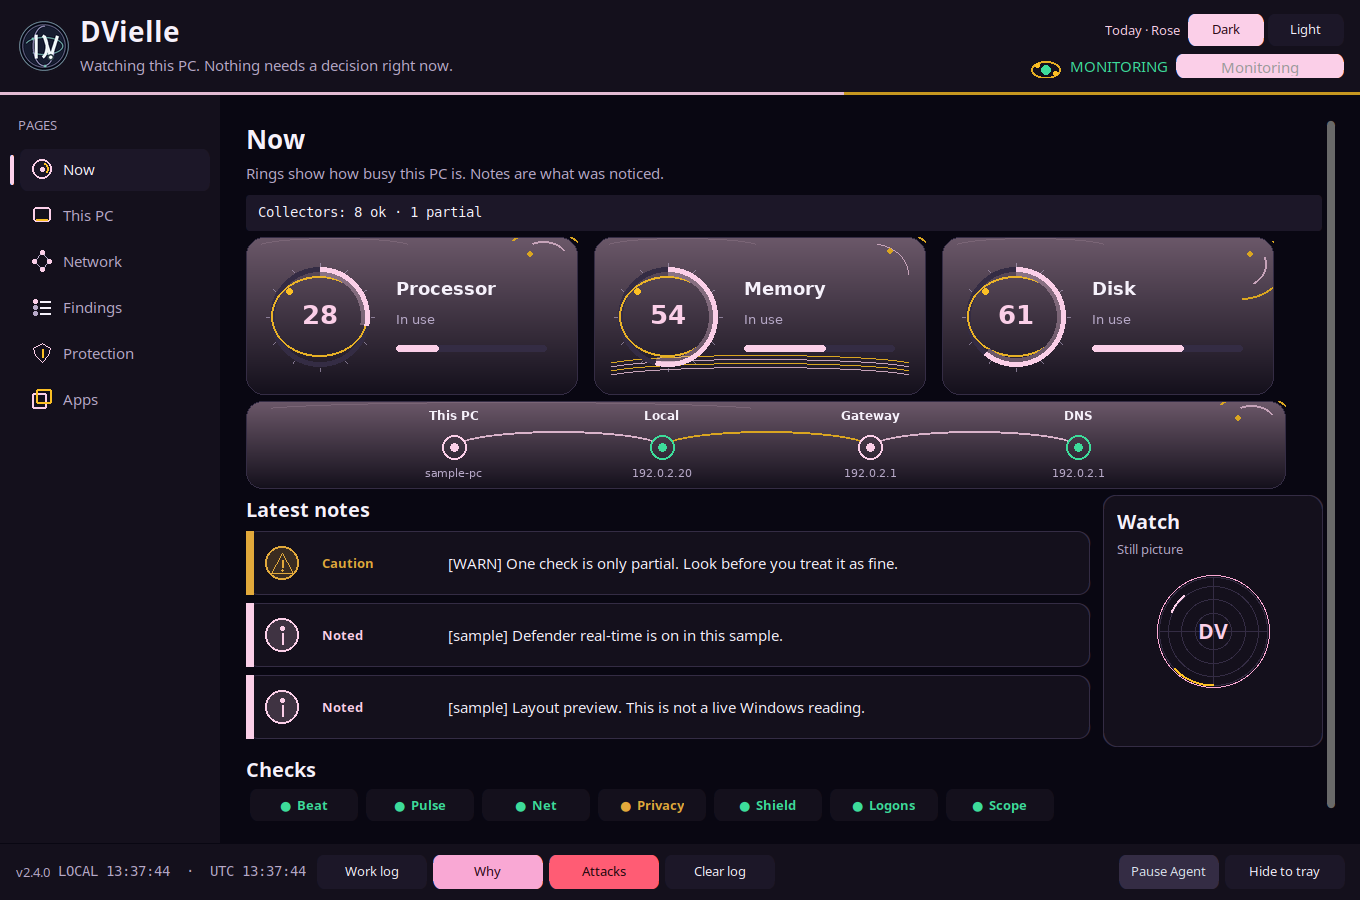
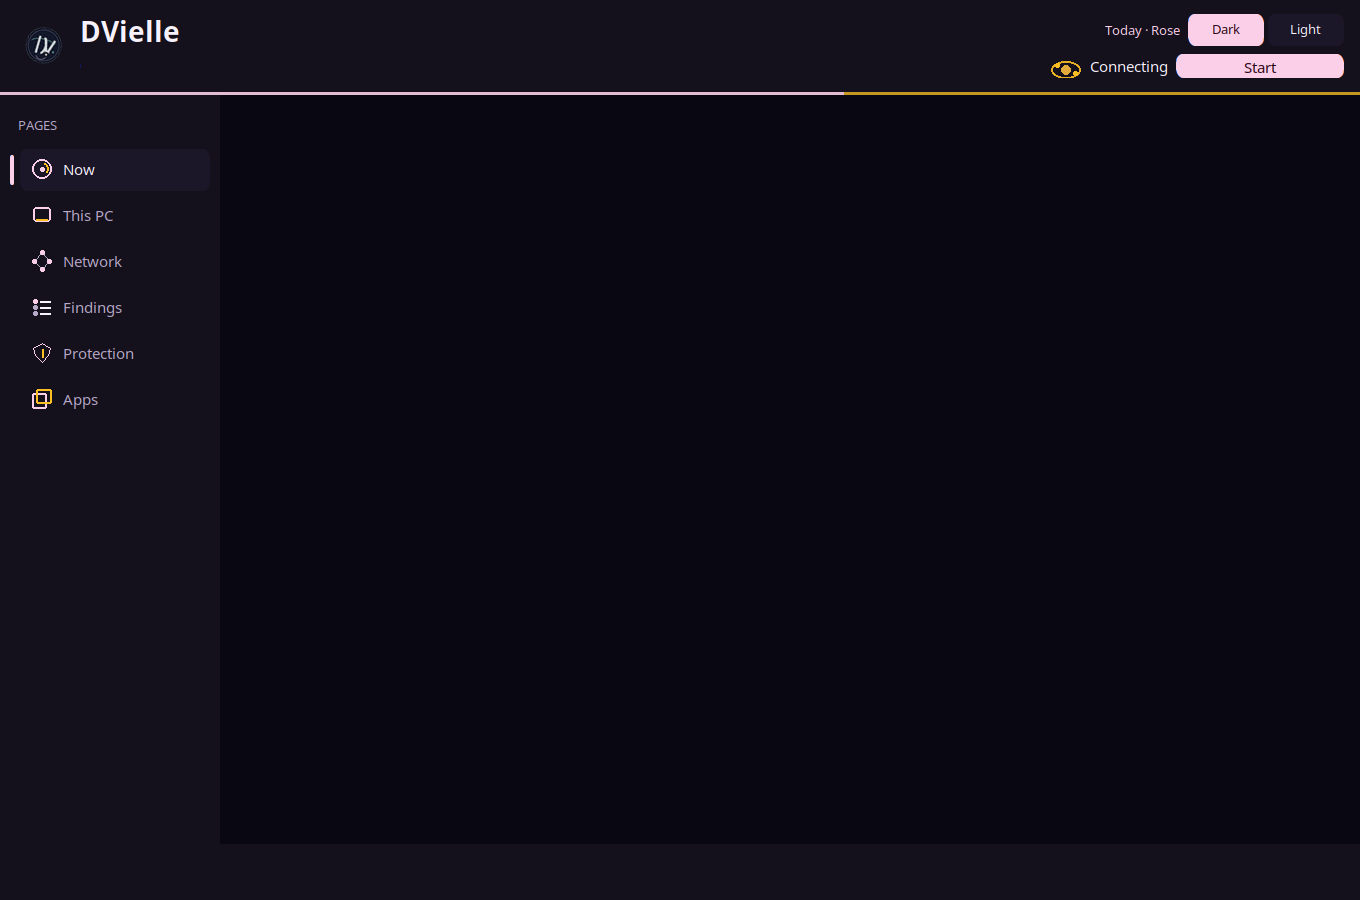
Remove watch still picture
Squash merge pull request #20.

diff --git a/dvielle/gui/presence.py b/dvielle/gui/presence.py
@@ -7,91 +7,11 @@ time string once a second; that is a readout, not a motion effect.
 
 from __future__ import annotations
 
-import tkinter as tk
-
 import customtkinter as ctk
 
 from dvielle.gui import theme as T
 from dvielle.gui.graphics import dial_pair
 from dvielle.gui.observations import collector_state
-
-
-class LivingRadar(ctk.CTkFrame):
-    """Static radar instrument. The sweep does not move."""
-
-    def __init__(self, master, size: int = 120, **kwargs) -> None:
-        super().__init__(master, fg_color="transparent", **kwargs)
-        self.size = size
-        self._running = False
-        self.canvas = tk.Canvas(
-            self,
-            width=size,
-            height=size,
-            bg=T.hex_color("panel"),
-            highlightthickness=0,
-            bd=0,
-        )
-        self.canvas.pack()
-        T.subscribe(self._on_theme)
-        self._redraw_radar()
-
-    def _on_theme(self, _mode: str) -> None:
-        try:
-            if not self.winfo_exists():
-                T.unsubscribe(self._on_theme)
-                return
-            self.canvas.configure(bg=T.hex_color("panel"))
-            self._redraw_radar()
-        except Exception:
-            T.unsubscribe(self._on_theme)
-
-    def _redraw_radar(self) -> None:
-        # Must not be named _draw — CTkFrame._draw(no_color_updates=...) owns that.
-        self.canvas.delete("all")
-        cx = cy = self.size // 2
-        r = self.size // 2 - 6
-        self.canvas.create_oval(
-            cx - r - 2, cy - r - 2, cx + r + 2, cy + r + 2,
-            outline=T.hex_color("accent_dim"), width=1,
-        )
-        for frac in (0.35, 0.6, 0.85, 1.0):
-            rr = int(r * frac)
-            self.canvas.create_oval(
-                cx - rr, cy - rr, cx + rr, cy + rr,
-                outline=T.hex_color("border"), width=1,
-            )
-        self.canvas.create_line(cx - r, cy, cx + r, cy, fill=T.hex_color("border"), width=1)
-        self.canvas.create_line(cx, cy - r, cx, cy + r, fill=T.hex_color("border"), width=1)
-        # Fixed arcs so the mark still reads as a radar. They do not sweep.
-        phase = int(T.current_motif()["phase"])
-        self.canvas.create_arc(
-            cx - r, cy - r, cx + r, cy + r,
-            start=phase, extent=48,
-            style=tk.ARC, outline=T.hex_color("orbit"), width=2,
-        )
-        self.canvas.create_arc(
-            cx - r + 8, cy - r + 8, cx + r - 8, cy + r - 8,
-            start=128, extent=28,
-            style=tk.ARC, outline=T.hex_color("accent"), width=2,
-        )
-        self.canvas.create_text(
-            cx,
-            cy,
-            text="DV" if self._running else "WAIT",
-            fill=T.hex_color("accent") if self._running else T.hex_color("mute"),
-            font=("Segoe UI", 16, "bold"),
-        )
-
-    def set_running(self, running: bool) -> None:
-        running = bool(running)
-        if self._running == running:
-            return
-        self._running = running
-        self._redraw_radar()
-
-    def destroy(self) -> None:
-        T.unsubscribe(self._on_theme)
-        super().destroy()
 
 
 class ActivityTicker(ctk.CTkFrame):

diff --git a/dvielle/gui/app.py b/dvielle/gui/app.py
@@ -34,7 +34,6 @@ from dvielle.gui.observations import (
 from dvielle.gui.presence import (
     ActivityTicker,
     ClockMono,
-    LivingRadar,
     MatrixRow,
     NerveRail,
     PressureGauge,
@@ -392,31 +391,11 @@ class DVielleApp:
         self.link_map = NetworkMap(page)
         self.link_map.pack(fill="x", pady=(0, 6))
 
-        split = ctk.CTkFrame(page, fg_color="transparent")
-        split.pack(fill="both", expand=True)
-        notes = ctk.CTkFrame(split, fg_color="transparent")
-        notes.pack(side="left", fill="both", expand=True, padx=(0, 12))
+        notes = ctk.CTkFrame(page, fg_color="transparent")
+        notes.pack(fill="x")
         ctk.CTkLabel(notes, text="Latest notes", font=T.FONT_TITLE, text_color=T.TEXT).pack(anchor="w", pady=(0, 8))
         self.finding_cards = FindingCards(notes, limit=3)
         self.finding_cards.pack(fill="x")
-
-        watch = ctk.CTkFrame(
-            split,
-            fg_color=T.BG_PANEL,
-            corner_radius=14,
-            border_width=1,
-            border_color=T.BORDER,
-            width=220,
-            height=196,
-        )
-        watch.pack(side="right", fill="y")
-        watch.pack_propagate(False)
-        ctk.CTkLabel(watch, text="Watch", font=T.FONT_TITLE, text_color=T.TEXT).pack(anchor="w", padx=14, pady=(12, 0))
-        ctk.CTkLabel(
-            watch, text="Still picture", font=T.FONT_TAGLINE, text_color=T.TEXT_DIM,
-        ).pack(anchor="w", padx=14, pady=(0, 4))
-        self.radar = LivingRadar(watch, size=120)
-        self.radar.pack(padx=14, pady=(4, 8))
 
         ctk.CTkLabel(page, text="Checks", font=T.FONT_TITLE, text_color=T.TEXT).pack(anchor="w", pady=(8, 4))
         self.nerve_rail = NerveRail(page)
@@ -826,7 +805,6 @@ class DVielleApp:
         self.mission_lbl.configure(text=status.message)
         self.ticker.push(activity_summary(data))
         self.nerve_rail.set_states(data)
-        self.radar.set_running(running)
         if status.ownership == "attached":
             self.start_btn.configure(text="Attached", state="disabled")
             self.vigilance_btn.configure(text="Background owner", state="disabled")

diff --git a/tests/test_console_theme.py b/tests/test_console_theme.py
@@ -185,10 +185,12 @@ def test_only_the_logo_animates() -> None:
     assert plan["intro_ms"] >= 50
     assert plan["idle_ms"] >= 1000
 
-    from dvielle.gui.presence import ClockMono, LivingRadar, PressureGauge, ScanFeed
+    from dvielle.gui import presence as presence_mod
+    from dvielle.gui.presence import ClockMono, PressureGauge, ScanFeed
 
-    for cls in (LivingRadar, PressureGauge, ScanFeed):
+    for cls in (PressureGauge, ScanFeed):
         assert "self.after" not in inspect.getsource(cls)
+    assert not hasattr(presence_mod, "LivingRadar")
     assert "self.after" in inspect.getsource(ClockMono)
 
     presence = (ROOT / "dvielle" / "gui" / "presence.py").read_text(encoding="utf-8")
@@ -219,6 +221,10 @@ def test_only_the_logo_animates() -> None:
     assert "RingCard" in app
     assert "StatusOrb" in app
     assert "link_map" in app
+    assert "Still picture" not in app
+    assert "LivingRadar" not in app
+    assert "self.radar" not in app
+    assert not (ROOT / "dvielle" / "gui" / "hologram.py").exists()
     assert line_status("[WARN] One check is only partial.")[0] == "Caution"
     assert line_status("[sample] Layout preview.")[0] == "Noted"
     assert line_status("CRITICAL hold")[0] == "Needs a look"

diff --git a/scripts/smoke_test.py b/scripts/smoke_test.py
@@ -71,7 +71,6 @@ def main() -> int:
         except ImportError:
             raise RuntimeError("tkinter not available (install python3-tk on Linux)")
         import customtkinter  # noqa: F401
-        importlib.import_module("dvielle.gui.hologram")
         importlib.import_module("dvielle.gui.voice")
         importlib.import_module("dvielle.gui.app")
 

diff --git a/docs/DECISIONS.md b/docs/DECISIONS.md
@@ -36,4 +36,5 @@ Futuristic cadence / Twin: **[VIGILLANCE_FUTURE_ARCHITECTURE.md](VIGILLANCE_FUTU
 | Alerts | Evidence-backed logs + optional toasts | Explainability required |
 | Chat assistant | Removed in 2.3.3 | Not deferred and not a resume item. See `CHAT_REMOVED.md`. Console voice toasts stay. |
 | Console appearance | Dark by default. Light is a header control. The choice is `data/console_ui.json`. Only the logo animates. The 2.4.0 console is a left-hand page shell with drawn rings, page icons, a status orb, and a network map. A local date picks one of five accent pairs (Violet, Coral, Gold, Sky, Rose) and a still orbit angle. Light uses the cool, quiet version of that pair. Dark or Light stays in `console_ui.json`. The header mark is a drawn orbital D/V emblem and is the only motion. | CustomTkinter `(light, dark)` tuples. `system` mode is not used, because on Linux CustomTkinter keeps system mode on light. A missing file stays dark. Local data, not `config.yaml` and not the cloud. Product locks are unchanged. 2.4.0 did not ship the earlier recolor; this shell is the 2.4.0 UI. |
+| Now page Watch card | Removed | The “Watch / Still picture” DV radar on Now was a static decoration. It was not a camera. Camera privacy stays a collector and a finding. Latest notes use the full page width, and Checks sit under them. |
 | Scope v1→v2 | Laptop guardian; expand engines per architecture phases | Avoid feature spray |

diff --git a/docs/DESIGN.md b/docs/DESIGN.md
@@ -71,7 +71,7 @@ The console is a shell, not a four-column instrument panel.
 
 1. **Header** — logo, product name, one status sentence, the day's color name, Dark/Light, start.
 2. **Left pages** — Now, This PC, Network, Findings, Protection, Apps. One page is visible.
-3. **Now** — three still load rings (processor, memory, disk), a still network map, latest notes as cards (severity glyph, color bar, and a plain word: Noted, Caution, Needs a look, Settled), a small static watch mark, collector chips. Page icons and a header status orb are drawn, not typed bullets.
+3. **Now** — three still load rings (processor, memory, disk), a still network map, latest notes as cards (severity glyph, color bar, and a plain word: Noted, Caution, Needs a look, Settled), and collector chips. Page icons and a header status orb are drawn, not typed bullets. The header logo is the brand mark. There is no separate Watch card.
 4. **This PC** — full-width load bars (processor, memory, disk).
 5. **Apps** — noticed, you choose, then it can close. The choice dialogs are unchanged.
 6. **Footer** — work log, why, attacks, pause, hide. Why stays one click away.

diff --git a/docs/USER_GUIDE.md b/docs/USER_GUIDE.md
@@ -50,7 +50,7 @@ The left rail has six pages:
 
 | Page | What it is for |
 |------|----------------|
-| Now | How busy the PC is, latest notes, and a still picture of the logo |
+| Now | How busy the PC is, and the latest notes |
 | This PC | Processor, memory, and disk in more detail |
 | Network | This PC, local address, gateway, and DNS |
 | Findings | What was noticed, in plain language |
